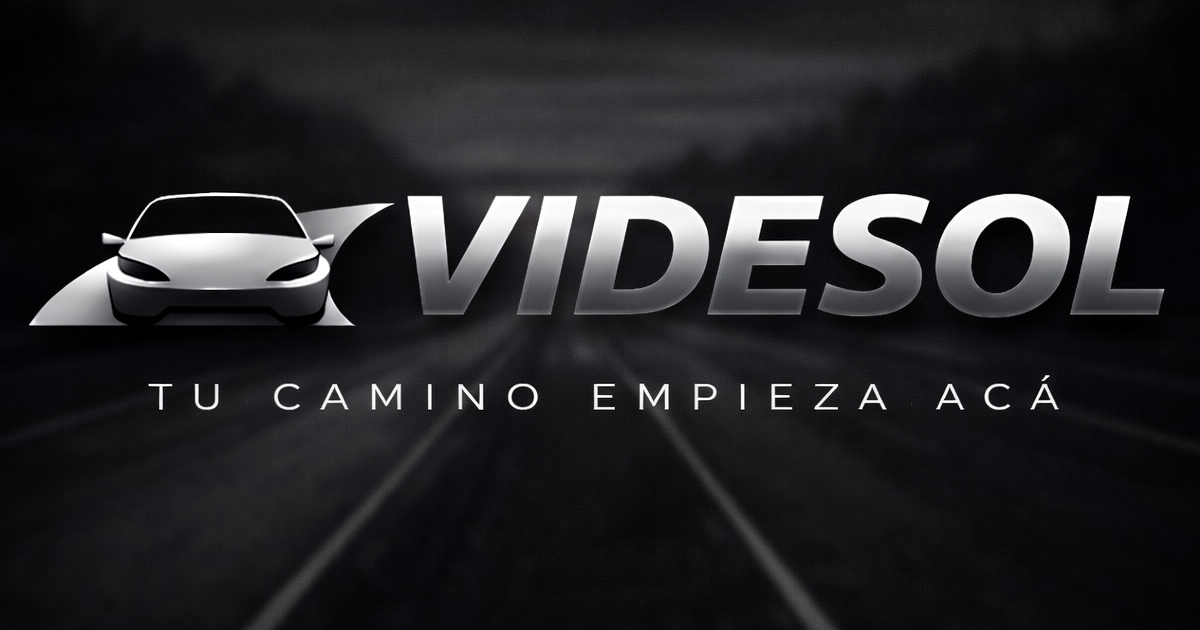
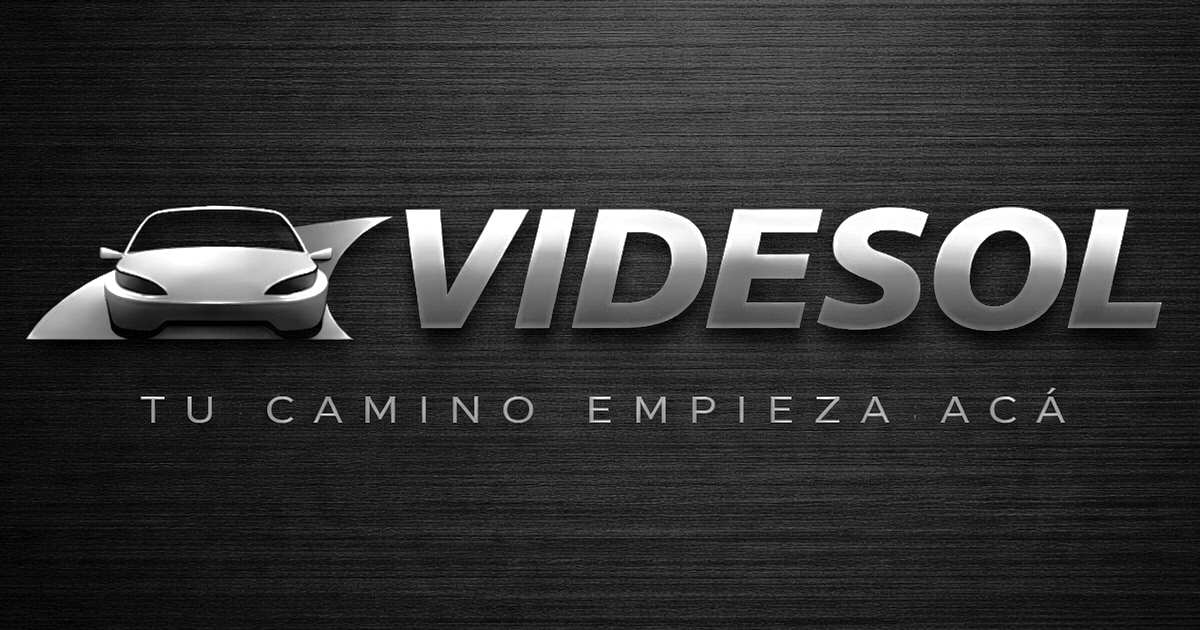
Se modificó og-image para open Graph

diff --git a/src/components/layout/Navbar.tsx b/src/components/layout/Navbar.tsx
@@ -82,9 +82,12 @@ export default function Navbar() {
 
   return (
     <>
+      {/* Spacer para compensar el navbar fixed */}
+      <div className="h-15.5 lg:h-17.5" />
+
       {/* ── Navbar ──────────────────────────────────────────────────── */}
       <nav
-        className={`sticky top-0 z-40 w-full transition-all duration-300 ${
+        className={`fixed top-0 left-0 right-0 z-40 w-full transition-all duration-300 ${
           scrolled
             ? "bg-white/95 backdrop-blur-md shadow-[0_2px_24px_rgba(0,0,0,0.09)]"
             : "bg-white border-b border-border"

diff --git a/src/app/layout.tsx b/src/app/layout.tsx
@@ -54,7 +54,7 @@ export const metadata: Metadata = {
     type: "website",
     images: [
       {
-        url: "https://videsol-web.vercel.app/images/og-image.png",
+        url: "/images/og-image.jpg",
         width: 1200,
         height: 630,
         alt: "Videsol — Concesionaria oficial",
@@ -68,7 +68,7 @@ export const metadata: Metadata = {
     title: "Videsol — Automotora | Colonia del Sacramento",
     description:
       "Tu automotora de confianza en Colonia del Sacramento. BYD, Nissan, Citroën, Peugeot, Riddara, Renault y Subaru.",
-    images: ["https://videsol-web.vercel.app/images/og-image.png"],
+    images: ["/images/og-image.jpg"],
   },
 };
 
